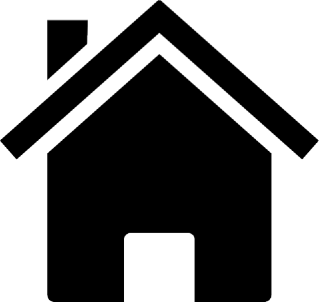
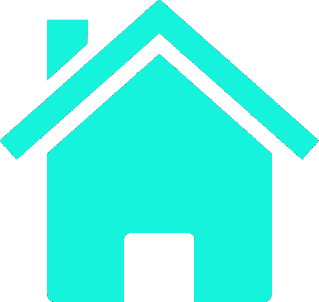
new styles and changes

diff --git a/index.html b/index.html
@@ -8,21 +8,59 @@
   <body>
     <nav class="navbar">
       <ul>
-        <li class="nav-items"><a class="nav-items-links" href="">Projects</a></li>
-        <li class="nav-items"><a class="nav-items-links" href="">Interests</a></li>
-        <li class="nav-items"><a class="nav-items-links" href="">Skils</a></li>
-        <li class="nav-items"><a class="nav-items-links" href="">About</a></li>
+        <li class="right-nav-items"><a class="nav-items-links" href="projects.html">Projects</a></li>
+        <li class="nav-items"><a class="nav-items-links" href="interests.html">Interests</a></li>
+        <li class="nav-items"><a class="nav-items-links" href="about-me.html">About</a></li>
         <div class="nav-logo-cont">
-          <li class="nav-logo"><a class="logo-link" href=""><img class="logo" src="images/home.png" ></a></li>
+          <li class="nav-logo"><a class="logo-link" href="index.html"><img class="logo" src="images/home.png" ></a></li>
         </div>
       </ul>
     </nav>
-    <div class="about-me-header-cont">
-      <h1 class="about-me-header">About Me</h1>
+    <div class="mph-cont">
+      <h1 class="main-page-header">Robbin Christopher Skeen</h1>
     </div>
-    <div class="about-me-pic-cont">
-      <script src="https://static.elfsight.com/platform/platform.js" data-use-service-core defer></script>
-      <div class="elfsight-app-1bf0e791-35ba-412a-aa7a-3a633557d285" data-elfsight-app-lazy></div>
+    <div class="sh-cont">
+      <h1 class="skills-header">Skills</h1>
     </div>
+    <div class="skill-box-cont-cont">
+    <div class="skill-box-cont">
+      <div class="skill-box">
+        <img class="all-logo" src="images/python1.png">
+        <h2 class="logo-names">Python</h2>
+      </div>
+      <div class="skill-box">
+        <img class="all-logo" src="images/git.perfect.png">
+        <h2 class="logo-names">Git</h2>
+      </div>
+      <div class="skill-box">
+        <img class="all-logo" src="images/html-5-logotype.png">
+        <h2 class="logo-names">HTML</h2>
+      </div>
+      <div class="skill-box">
+        <img class="all-logo" src="images/django.png">
+        <h2 class="logo-names">Django</h2>
+      </div>
+      <div class="skill-box">
+        <img class="all-logo" src="images/java.png">
+        <h2 class="logo-names">Java</h2>
+      </div>
+      <div class="skill-box">
+        <img class="all-logo" src="images/java-script.png">
+        <h2 class="logo-names">Javascript</h2>
+      </div>
+      <div class="skill-box">
+        <img class="all-logo" src="images/sql.png">
+        <h2 class="logo-names">SQL</h2>
+      </div>
+      <div class="skill-box">
+        <img class="all-logo" src="images/spring-logo-b.png">
+        <h2 class="logo-names">Spring</h2>
+      </div>
+      <div class="skill-box">
+        <img class="all-logo" src="images/css-3.png">
+        <h2 class="logo-names">CSS</h2>
+      </div>
+    </div>
+  </div>
   </body>
 </html>

diff --git a/style.css b/style.css
@@ -1,22 +1,14 @@
 body {
-  background-image: linear-gradient(
-    180deg,
-    #1E201E,
-    #ECDFCC
-  );
-  background-repeat: no-repeat;
-  background-size: cover;
-  background-attachment: fixed;
-  min-height: 100vh
+  background-color: #1f2333 ;
 }
 
 
 .navbar ul {
   list-style-type: none;
   background-image: linear-gradient(
-    190deg,
-    #1E201E,
-    #ECDFCC
+    100deg,
+    #1f2333,
+    #2b3148
   );
   background-repeat: no-repeat;
   background-size: cover;
@@ -30,10 +22,15 @@ body {
   right: 0%;
   top: 0%;
   position: fixed;
-  z-index: 100
+  z-index: 100;
+  border: 1px inset #13505B
 }
 
 .nav-items {
+  padding-right: 3%;
+}
+
+.right-nav-items {
   padding-right: 3%;
 }
 
@@ -56,7 +53,7 @@ body {
 }
 
 .nav-items-links {
-  color: #697565;
+  color: rgb(21, 243, 220);
   text-decoration: none;
   padding: 	0.9375em;
   display: block;
@@ -79,20 +76,107 @@ body {
 }
 
 .about-me-header {
-  color: black;
+  color: #ECDFCC;
 }
 
+.name {
+  color: rgb(21, 243, 220)
+}
 
+.name-cont {
+  display: flex;
+  justify-content: center;
+}
 
+.about-me-cont {
+  display: flex;
+  justify-content: center;
+  width: 38%;
+  margin: auto;
+}
 
+.skills-header {
+  color: rgb(21, 243, 220)
+}
+
+.sh-cont {
+  display: flex;
+  justify-content: center;
+}
+
+.main-page-header {
+  color: #D7D9CE;
+  margin: 4% 0% 0% 0%;
+}
+
+.mph-cont {
+  display: flex;
+  justify-content: center;
+}
+
+/* Skill Page */
+
+.skill-box {
+  margin: 10%;
+}
+
+.skill-box-cont {
+  display: grid;
+  gap: 1px;
+  grid-template-columns: repeat(3, 1fr);
+  background-color: #2b3148;
+  border: 3px inset rgb(21, 243, 220);
+  width: 80%;
+  padding: 0% 0% 0% 0%;
+  margin: 0% 0% 0% 0%;
+  text-align: center;
+}
+
+.skill-box-cont-cont {
+  display: flex;
+  justify-content: center;
+}
+
+.all-logo {
+  width: 20%
+}
+
+.git-logo {
+  width: 15%
+}
+
+.skill-logo {
+  margin:0% 0% 0% 0%;
+  width: 100%;
+  padding: 0% 0% 0% 0%;
+}
+
+.python-word {
+  padding: 0% 0% 0% 0%;
+  margin: 0% 0% 0% 0%;
+  color: rgb(21, 243, 220)
+}
+
+.logo-names {
+  color:#D7D9CE
+}
 
 @media only screen and (max-width: 768px) {
+
+  .right-nav-items{
+    margin-right: 13%
+  }
+
   .nav-items-links {
-    padding: 	3%;
+    padding: 	0%;
   }
 
   .nav-logo {
     width: 100%
+  }
+
+  .nav-logo-cont .nav-logo .logo-link .logo {
+    width: 60%
   }
 
   .about-me-header-cont {
@@ -102,5 +186,17 @@ body {
   .nav-logo, .logo-link, .logo {
     width: 28%
   }
-  
+
+  .all-logo {
+    width: 60%
+  }
+
+  .logo-names {
+    font-size: 10pt;
+  }
+
+  .main-page-header {
+    margin-top: 15%;
+    font-size: 23pt;
+  }
 }

diff --git a/about-me.html b/about-me.html
@@ -1,0 +1,33 @@
+<!DOCTYPE html>
+<html>
+  <head>
+    <title>About Me</title>
+    <link rel="stylesheet" href="style.css" />
+  </head>
+  <body>
+    <nav class="navbar">
+      <ul>
+        <li class="right-nav-items"><a class="nav-items-links" href="projects.html">Projects</a></li>
+        <li class="nav-items"><a class="nav-items-links" href="interests.html">Interests</a></li>
+        <li class="nav-items"><a class="nav-items-links" href="about-me.html">About</a></li>
+        <div class="nav-logo-cont">
+          <li class="nav-logo"><a class="logo-link" href="index.html"><img class="logo" src="images/home.png" ></a></li>
+        </div>
+      </ul>
+    </nav>
+    <div class="about-me-header-cont">
+      <h1 class="about-me-header">About Me</h1>
+    </div>
+    <div class="name-cont">
+      <h2 class="name">Robbin Christopher Skeen</h2>
+    </div>
+    <div class="about-me-cont">
+      <p class="about-me">Lorem ipsum dolor sit amet consectetur adipisicing elit. Ipsum, temporibus veritatis sapiente, eos animi natus ea reiciendis tempore nulla assumenda commodi necessitatibus consequatur atque quos neque qui repudiandae vel a!</p>
+    </div>
+
+    <div class="about-me-pic-cont">
+      <script src="https://static.elfsight.com/platform/platform.js" data-use-service-core defer></script>
+      <div class="elfsight-app-1bf0e791-35ba-412a-aa7a-3a633557d285" data-elfsight-app-lazy></div>
+    </div>
+  </body>
+</html>

diff --git a/projects.html b/projects.html
@@ -1,0 +1,20 @@
+<!DOCTYPE html>
+<html>
+  <head>
+    <title>Projects</title>
+    <link rel="stylesheet" href="style.css" />
+  </head>
+
+  <body>
+    <nav class="navbar">
+      <ul>
+        <li class="right-nav-items"><a class="nav-items-links" href="projects.html">Projects</a></li>
+        <li class="nav-items"><a class="nav-items-links" href="interests.html">Interests</a></li>
+        <li class="nav-items"><a class="nav-items-links" href="about-me.html">About</a></li>
+        <div class="nav-logo-cont">
+          <li class="nav-logo"><a class="logo-link" href="index.html"><img class="logo" src="images/home.png" ></a></li>
+        </div>
+      </ul>
+    </nav>
+  </body>
+</html>

diff --git a/interests.html b/interests.html
@@ -1,0 +1,19 @@
+<!DOCTYPE html>
+<html>
+  <head>
+    <title>Interests</title>
+    <link rel="stylesheet" href="style.css" />
+  </head>
+  <body>
+    <nav class="navbar">
+      <ul>
+        <li class="right-nav-items"><a class="nav-items-links" href="projects.html">Projects</a></li>
+        <li class="nav-items"><a class="nav-items-links" href="interests.html">Interests</a></li>
+        <li class="nav-items"><a class="nav-items-links" href="about-me.html">About</a></li>
+        <div class="nav-logo-cont">
+          <li class="nav-logo"><a class="logo-link" href="index.html"><img class="logo" src="images/home.png" ></a></li>
+        </div>
+      </ul>
+    </nav>
+  </body>
+</html>
